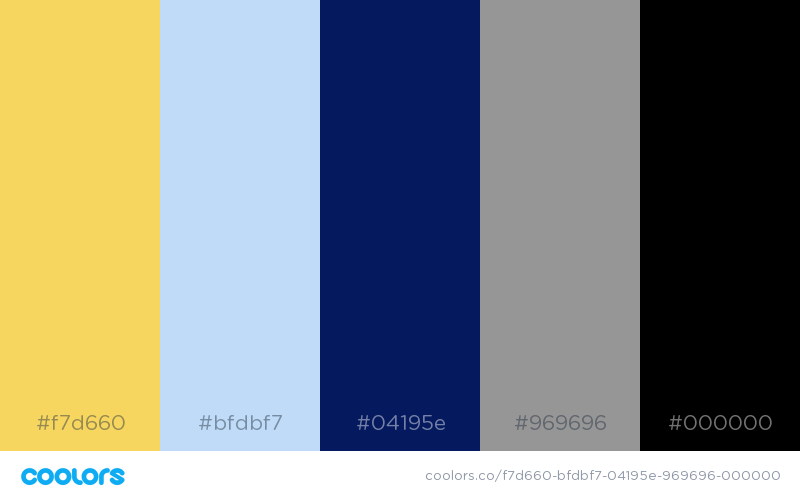
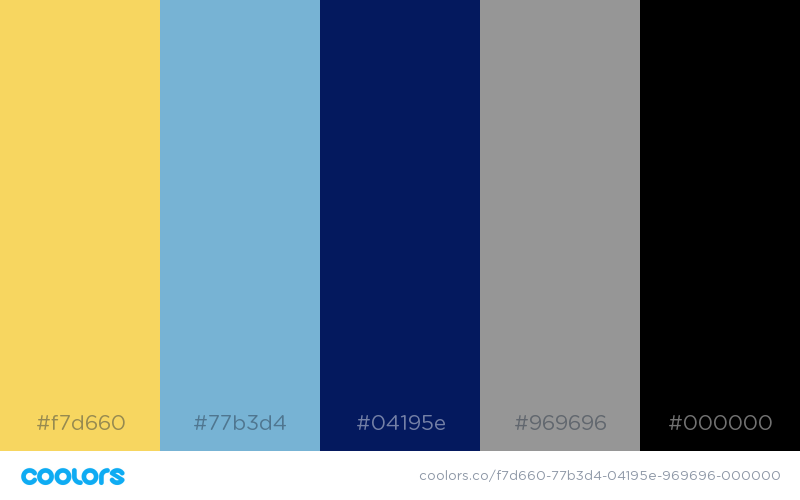
lesson3 fixed

Changed region(s): [[0.1875, 0.0, 0.4062, 0.9], [0.5312, 0.93, 0.75, 0.96]]

diff --git a/lesson3/css/small.css b/lesson3/css/small.css
@@ -8,21 +8,22 @@
         font-family: 'Fjalla One', sans-serif;
         color: #ffffff;
         background-color: #04195E;
-        text-align: start;
-        padding: 0.5em;
+        text-align: center;
+        padding: 1em;
         
         
     }
 
     .pageTitle {
         font-size: 25px;
-        padding: 0.1em;
+        padding: 1em;
 
     }
 
     .myName {
         font-size: 20px;
-        padding: 0.1em;
+        padding-top: 5em;
+        
     }
 
     nav {
@@ -50,11 +51,11 @@
     }
 
     nav a:hover {
-        background-color: #EA4871;
+        background-color: #77B3D4;
     }
 
     section {
-        padding: 0.7em;
+        padding: 5em;
     }
 
     h1 {
@@ -80,6 +81,41 @@
     #siteLogo {
         width: 20%;
         height: 20%;
+    }
+
+    #colorpalette {
+        text-align: center;
+        margin: 0.5em;
+    }
+
+    #colorpaletteimg {
+        width: 70%;
+        height: 70%;
+    }
+
+    #grainyellow {
+        color: #F7D660;
+        background-color: #04195E;
+    
+    }
+
+    #iceberg {
+        color: #77B3D4;
+        background-color: #04195E;
+    }
+
+    #royalblue {
+        background-color: #77B3D4;
+    }
+
+    #spanishgray {
+        color: #969696;
+        background-color: #04195E;
+    }
+
+    #colorblack {
+        color: #000000;
+        background-color: #77B3D4;
     }
 
 

diff --git a/lesson3/color-scheme.html b/lesson3/color-scheme.html
@@ -27,6 +27,39 @@
                 </ul>
             </nav>
 
+            <main>
+                <div id="colorpalette"><img src="images/color palette.png" alt="color palette" id="colorpaletteimg"></div>
+
+                <h1 id="iceberg">ICEBERG - #77B3D4</h1>
+                
+                <p>Will be used on hover, website logo, 5 day forecast, Weather summary and backgrounds .</p>
+
+                <hr>
+
+                <h1 id="royalblue">ROYAL BLUE - #04195E</h1>
+                
+                <p>Will be used on h1, header and footer.</p>
+
+                <hr>
+
+                <h1 id="spanishgray">SPANISH GRAY - #969696</h1>
+
+                <p>Will be used on contact information background.</p>
+
+                <hr>
+
+                <h1 id="colorblack">BLACK - #000000</h1>
+
+                <p>Will be used on some paragraphs, and some others will be white.</p>
+
+                <hr>
+
+                <h1 id="grainyellow">STIL DE GRAIN YELLOW - #F7D660</h1>
+
+                <p>Will be used on the navigation bar.</p>
+
+            </main>
+
             <footer>
                 &copy; <span id="year"></span> | Nataly Caires | Idaho | <a class="byuilink" href="https://www.byui.edu/online" target="_blank">BYUI Online Learning</a>
                 <div id="lastUpdate"></div>

diff --git a/lesson3/css/medium.css b/lesson3/css/medium.css
@@ -59,13 +59,13 @@
         font-size: 27px;
     }
 
-    img {
+    #siteLogo {
         width: 25%;
         height: 25%;
     }
 
     nav a:hover {
-        background-color: #BFDBF7;
+        background-color: #77B3D4;
     }
 
 }

diff --git a/lesson3/css/large.css b/lesson3/css/large.css
@@ -15,4 +15,14 @@ nav .targetNav {
     padding-top: 1.5em;
 }
 
+nav .colorNav {
+        
+    padding-left: 95px;
+    padding-top: 1.5em;
+}
+
+#colorpalette {
+    margin: 1.5em;
+}
+
 }
